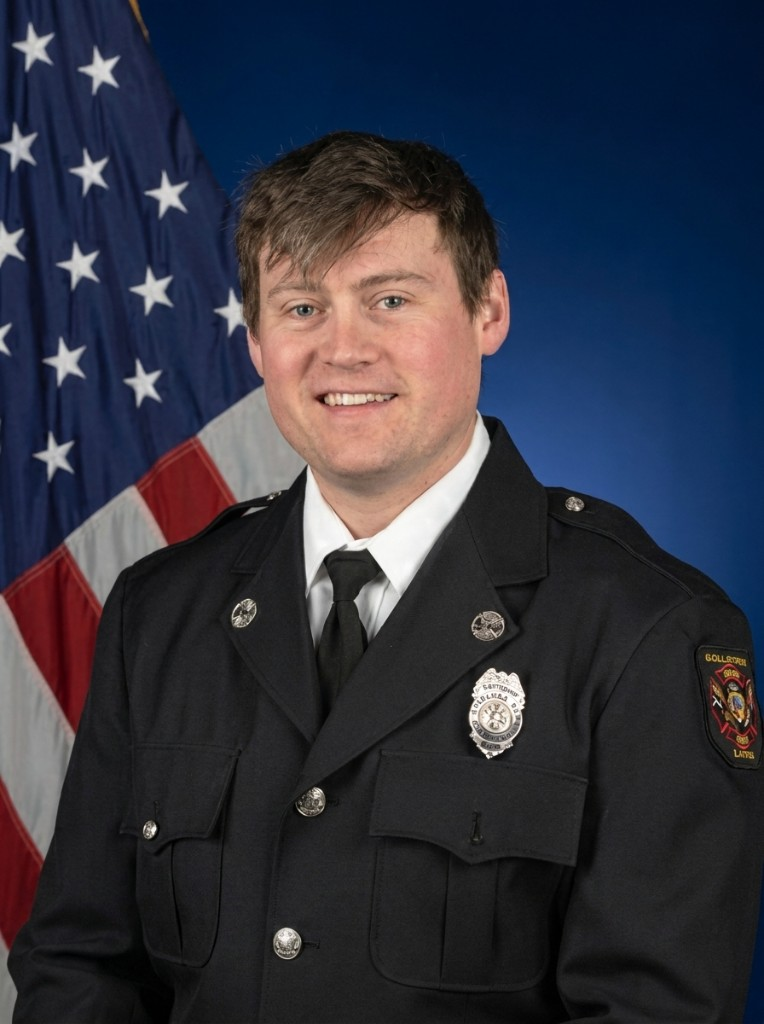
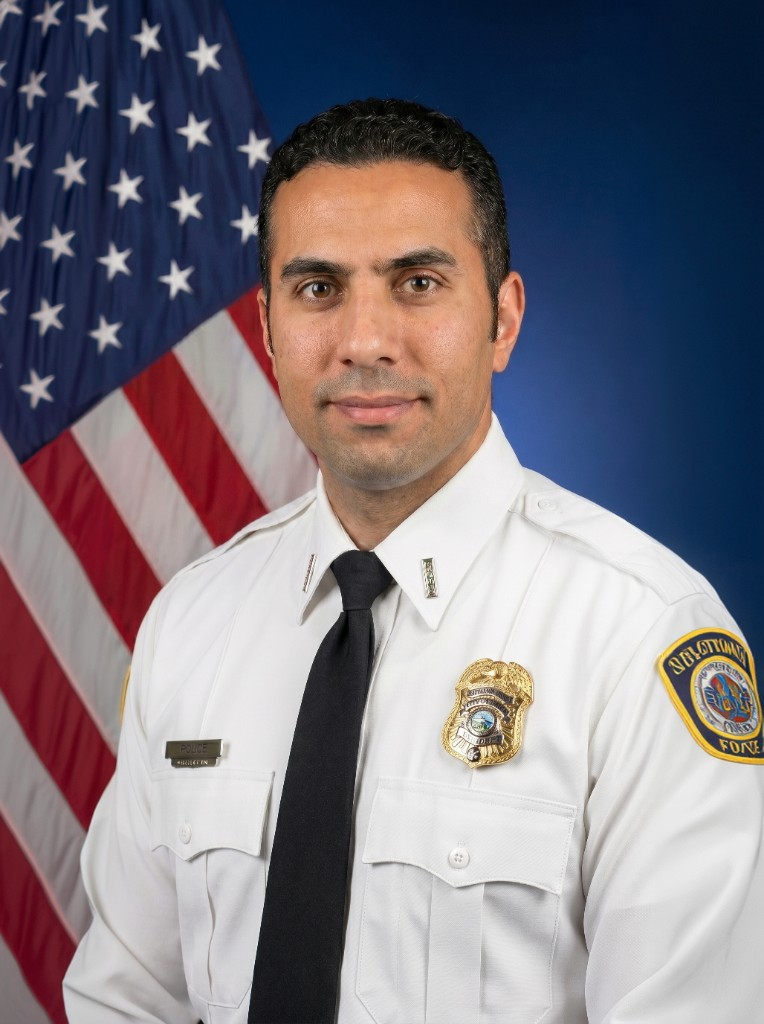
Polish instructor cards and update trainer headshots.
Improve Team 2 layout and typography for three instructors, and replace corrected Tyler, Reed, and Gabe photos.

diff --git a/apps/webapp/components/marketing/team-2.tsx b/apps/webapp/components/marketing/team-2.tsx
@@ -52,20 +52,24 @@ export const Team2 = (props: Team2Props) => {
           </h2>
           <p className="md:text-md">{description}</p>
         </div>
-        <div className="grid grid-cols-1 items-start justify-center gap-x-8 gap-y-12 md:grid-cols-2 md:gap-y-16 lg:grid-cols-4">
+        <div className="grid grid-cols-1 items-start justify-center gap-x-8 gap-y-12 md:grid-cols-2 md:gap-y-16 lg:grid-cols-3">
           {teamMembers.map((member, index) => (
             <TeamMember key={index} member={member} />
           ))}
         </div>
-        <div className="mx-auto mt-14 w-full max-w-md text-center md:mt-20 lg:mt-24">
-          <h4 className="mea-heading-h4 mb-3 md:mb-4">
-            {footer.heading}
-          </h4>
-          <p className="md:text-md">{footer.description}</p>
-          <div className="mt-6 flex items-center justify-center gap-x-4 text-center md:mt-8">
-            <Button {...footer.button}>{footer.button.title}</Button>
+        {footer.heading || footer.description || footer.button.title ? (
+          <div className="mx-auto mt-14 w-full max-w-md text-center md:mt-20 lg:mt-24">
+            {footer.heading ? (
+              <h4 className="mea-heading-h4 mb-3 md:mb-4">{footer.heading}</h4>
+            ) : null}
+            {footer.description ? <p className="md:text-md">{footer.description}</p> : null}
+            {footer.button.title ? (
+              <div className="mt-6 flex items-center justify-center gap-x-4 text-center md:mt-8">
+                <Button {...footer.button}>{footer.button.title}</Button>
+              </div>
+            ) : null}
           </div>
-        </div>
+        ) : null}
       </div>
     </section>
   );
@@ -74,18 +78,18 @@ export const Team2 = (props: Team2Props) => {
 const TeamMember = ({ member }: { member: TeamMember }) => {
   return (
     <div className="flex flex-col text-center">
-      <div className="relative mb-5 size-full overflow-hidden pt-[66%] md:mb-6 md:pt-[100%]">
+      <div className="relative mb-5 size-full overflow-hidden rounded-mea-sm pt-[66%] md:mb-6 md:pt-[100%]">
         <img
           src={member.image.src}
           alt={member.image.alt}
-          className="absolute inset-0 size-full object-cover"
+          className="absolute inset-0 size-full object-cover object-top"
         />
       </div>
-      <div className="mb-3 md:mb-4">
-        <h5 className="text-md font-semibold md:text-lg">{member.name}</h5>
+      <div className="flex flex-col items-center gap-1">
+        <h5 className="mea-heading-h4 uppercase">{member.name}</h5>
         <h6 className="md:text-md">{member.jobTitle}</h6>
+        <p className="text-sm text-neutral-dark">{member.description}</p>
       </div>
-      <p>{member.description}</p>
       <div className="mt-6 grid grid-flow-col grid-cols-[max-content] gap-3.5 self-center">
         {member.socialLinks.map((link, index) => (
           <a key={index} href={link.href}>